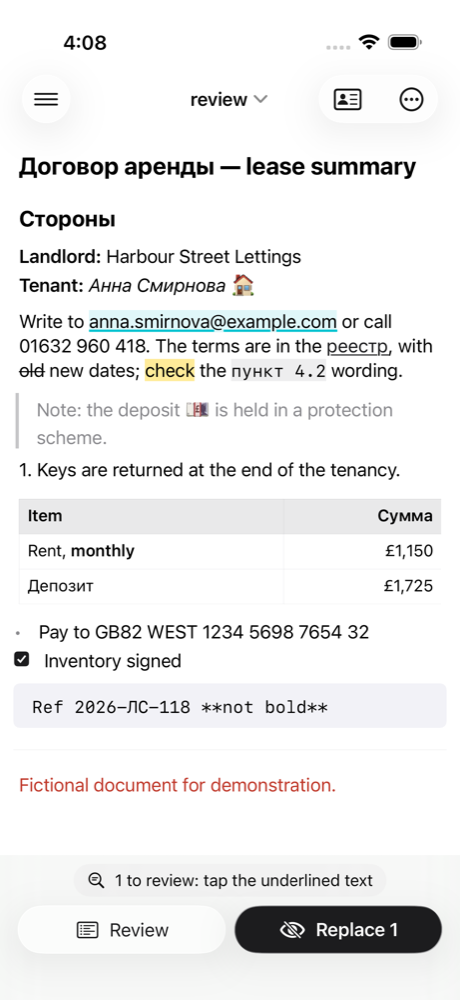
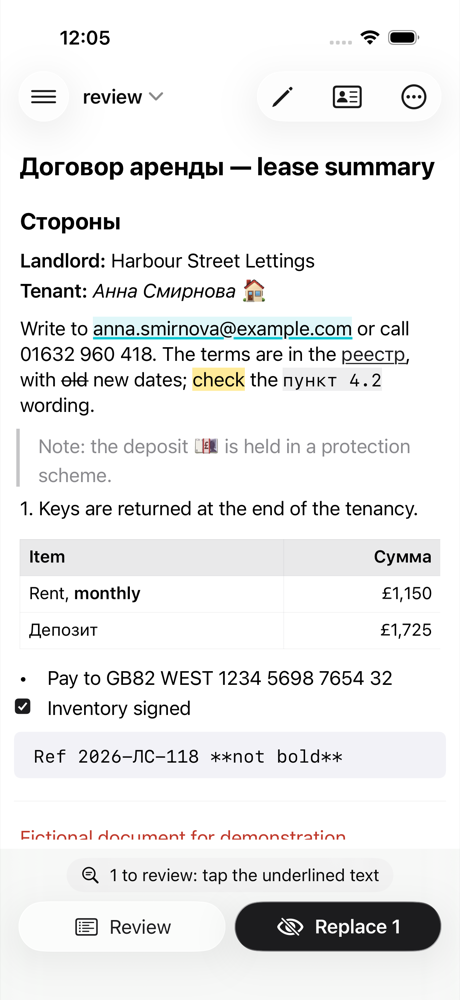
iOS list look: the bullet at 1.2x, centred in the column's first 16 pt; survey renders (ADR 0110 slice 5)
The chosen variant draws the bullet a fifth larger than the text, centred
in the first 16 pt of the column and on the text's x-height. Renders 65-67
(the list look in review, the caret in a nested item and in a task) and
the review and edit-mode shots that show the fixture's list, light and
dark.

diff --git a/apps/ios/mdocTests/RenderedMarkdownTests.swift b/apps/ios/mdocTests/RenderedMarkdownTests.swift
@@ -89,8 +89,8 @@ final class RenderedMarkdownTests: XCTestCase {
     /// The list look (ADR 0110): bullets, numbers and task boxes flush with
     /// the paragraph's edge, their text one 24 pt column in, each nested
     /// level a column further; an ordered list too wide for the column
-    /// widens all of its items; bullets and numbers in the text colour at
-    /// body size.
+    /// widens all of its items; bullets and numbers in the text colour, the
+    /// bullet a fifth larger than the text.
     func testListsShareOneColumn() throws {
         let numbered = (1...12).map { "\($0). Clause \($0)" }.joined(separator: "\n")
         let text = """
@@ -120,16 +120,21 @@ final class RenderedMarkdownTests: XCTestCase {
             XCTAssertEqual(style.headIndent, step * CGFloat(depth + 1), accuracy: 0.01, "\(word)'s text")
             XCTAssertEqual(style.firstLineHeadIndent, style.headIndent, "\(word) wraps under its text")
         }
-        for (word, depth) in [("Top", 0), ("Middle", 1), ("Bottom", 2), ("First", 0)] {
-            XCTAssertEqual(try XCTUnwrap(decoration(styled, at: word)?.label).x, step * CGFloat(depth), accuracy: 0.01, word)
+        // Bullets centred in the column's first 16 pt, numbers flush.
+        let box = BlockLayout.bulletBox * body.pointSize / 17
+        for (word, depth) in [("Top", 0), ("Middle", 1), ("Bottom", 2)] {
+            let label = try XCTUnwrap(decoration(styled, at: word)?.label)
+            XCTAssertEqual(label.x + label.text.size().width / 2, step * CGFloat(depth) + box / 2, accuracy: 0.5, word)
         }
+        XCTAssertEqual(try XCTUnwrap(decoration(styled, at: "First")?.label).x, 0, accuracy: 0.01)
         XCTAssertEqual(try XCTUnwrap(decoration(styled, at: "Open task")?.task).x, 0, "a task's box is flush")
         XCTAssertEqual(decoration(styled, at: "Done task")?.task?.checked, true)
-        // Bullets and numbers: the text colour, at body size.
-        for word in ["Top", "First"] {
+        // Bullets and numbers: the text colour; numbers at body size, the
+        // bullet a fifth larger.
+        for (word, size) in [("Top", body.pointSize * BlockLayout.bulletScale), ("First", body.pointSize)] {
             let label = try XCTUnwrap(decoration(styled, at: word)?.label?.text)
             XCTAssertEqual(label.attribute(.foregroundColor, at: 0, effectiveRange: nil) as? UIColor, UIColor.label.resolvedColor(with: traits))
-            XCTAssertEqual((label.attribute(.font, at: 0, effectiveRange: nil) as? UIFont)?.pointSize, body.pointSize)
+            XCTAssertEqual(try XCTUnwrap((label.attribute(.font, at: 0, effectiveRange: nil) as? UIFont)?.pointSize), size, accuracy: 0.01)
         }
         // "10." does not fit 24 pt: its whole list widens, and the item
         // nested under it starts at its text.
@@ -137,7 +142,8 @@ final class RenderedMarkdownTests: XCTestCase {
         let one = try indent("Clause 1\n")
         XCTAssertGreaterThan(one.headIndent, step)
         XCTAssertEqual(try indent("Clause 12").headIndent, one.headIndent)
-        XCTAssertEqual(try XCTUnwrap(decoration(styled, at: "Under twelve")?.label).x, one.headIndent, accuracy: 0.01)
+        let under = try XCTUnwrap(decoration(styled, at: "Under twelve")?.label)
+        XCTAssertEqual(under.x + under.text.size().width / 2, one.headIndent + box / 2, accuracy: 0.5)
         XCTAssertEqual(try indent("Under twelve").headIndent, one.headIndent + step, accuracy: 0.01)
         XCTAssertEqual(try indent("Second").headIndent, step, accuracy: 0.01, "another list keeps its column")
     }

diff --git a/apps/ios/Shared/UI/RenderedMarkdown.swift b/apps/ios/Shared/UI/RenderedMarkdown.swift
@@ -547,6 +547,15 @@ struct BlockLayout {
                 } else if let checked = item.task {
                     let size = ceil(body.capHeight * 1.25)
                     decoration.task = (checked, x, size, resolved(.secondaryLabel), resolved(.tintColor), resolved(.onAccent))
+                } else if item.list == nil {
+                    // A bullet a fifth larger than the text, centred in the
+                    // column's first 16 pt and on the text's x-height.
+                    let font = body.withSize(body.pointSize * Self.bulletScale)
+                    let label = NSAttributedString(string: item.label, attributes: [
+                        .font: font, .foregroundColor: resolved(.label),
+                        .baselineOffset: (body.xHeight - font.xHeight) / 2,
+                    ])
+                    decoration.label = (label, x + (Self.bulletBox * scale - Self.width(of: label)) / 2)
                 } else {
                     let label = NSAttributedString(string: item.label, attributes: [.font: body, .foregroundColor: resolved(.label)])
                     decoration.label = (label, x)
@@ -669,6 +678,10 @@ struct BlockLayout {
     static let listStep: CGFloat = 24
     /// The least room between a number and its text.
     static let labelGap: CGFloat = 6
+    /// A bullet's size against the text's, and the width at the column's
+    /// start it is centred in (the look chosen in ADR 0110's variants).
+    static let bulletScale: CGFloat = 1.2
+    static let bulletBox: CGFloat = 16
     /// The least room between the caret line's source marker and its text,
     /// and the narrowest a space inside that marker gets.
     static let markerGap: CGFloat = 4

diff --git a/docs/mobile-ui.md b/docs/mobile-ui.md
@@ -110,8 +110,9 @@ iOS: [`apps/ios/mdoc/Design/`](../apps/ios/mdoc/Design/).
   starts one column in, 24 pt at the 17 pt body and scaled with the text,
   and each nested level starts at its parent's text. An ordered list whose
   widest number (or written marker) does not fit widens its whole list's
-  column. Bullets and numbers are `.label` at body size; task boxes are
-  secondary. In edit mode the caret's line shows its source marker (`-`,
+  column. Bullets and numbers are `.label`: numbers at body size, the
+  bullet at 1.2× centred in the column's first 16 pt (the variant chosen
+  in ADR 0110's list look variants); task boxes are secondary. In edit mode the caret's line shows its source marker (`-`,
   `12.`, `- [ ]`) dimmed in that column, the spare room kerned after it, so
   the text does not move; a marker wider than the column (a task's) has
   its inner spaces narrowed, then its size reduced, to fit (ADR 0110).

diff --git a/changes/ios/ios-list-look.md b/changes/ios/ios-list-look.md
@@ -1,7 +1,7 @@
 - **Lists read evenly.** Bullets, numbers and task boxes start at the
   paragraph's left edge and their text shares one column, each nested level
   one column further; a list with two-digit numbers widens all its items
-  together. Bullets and numbers are in the text colour, the bullet at full
-  size. In edit mode the caret's line shows its `-`, `1.` or `- [ ]` in the
+  together. Bullets and numbers are in the text colour, the bullet a little
+  larger than the text. In edit mode the caret's line shows its `-`, `1.` or `- [ ]` in the
   same column, so the text no longer jumps sideways
   ([ADR 0110](docs/adr/0110-mobile-editor-polish.md)).
